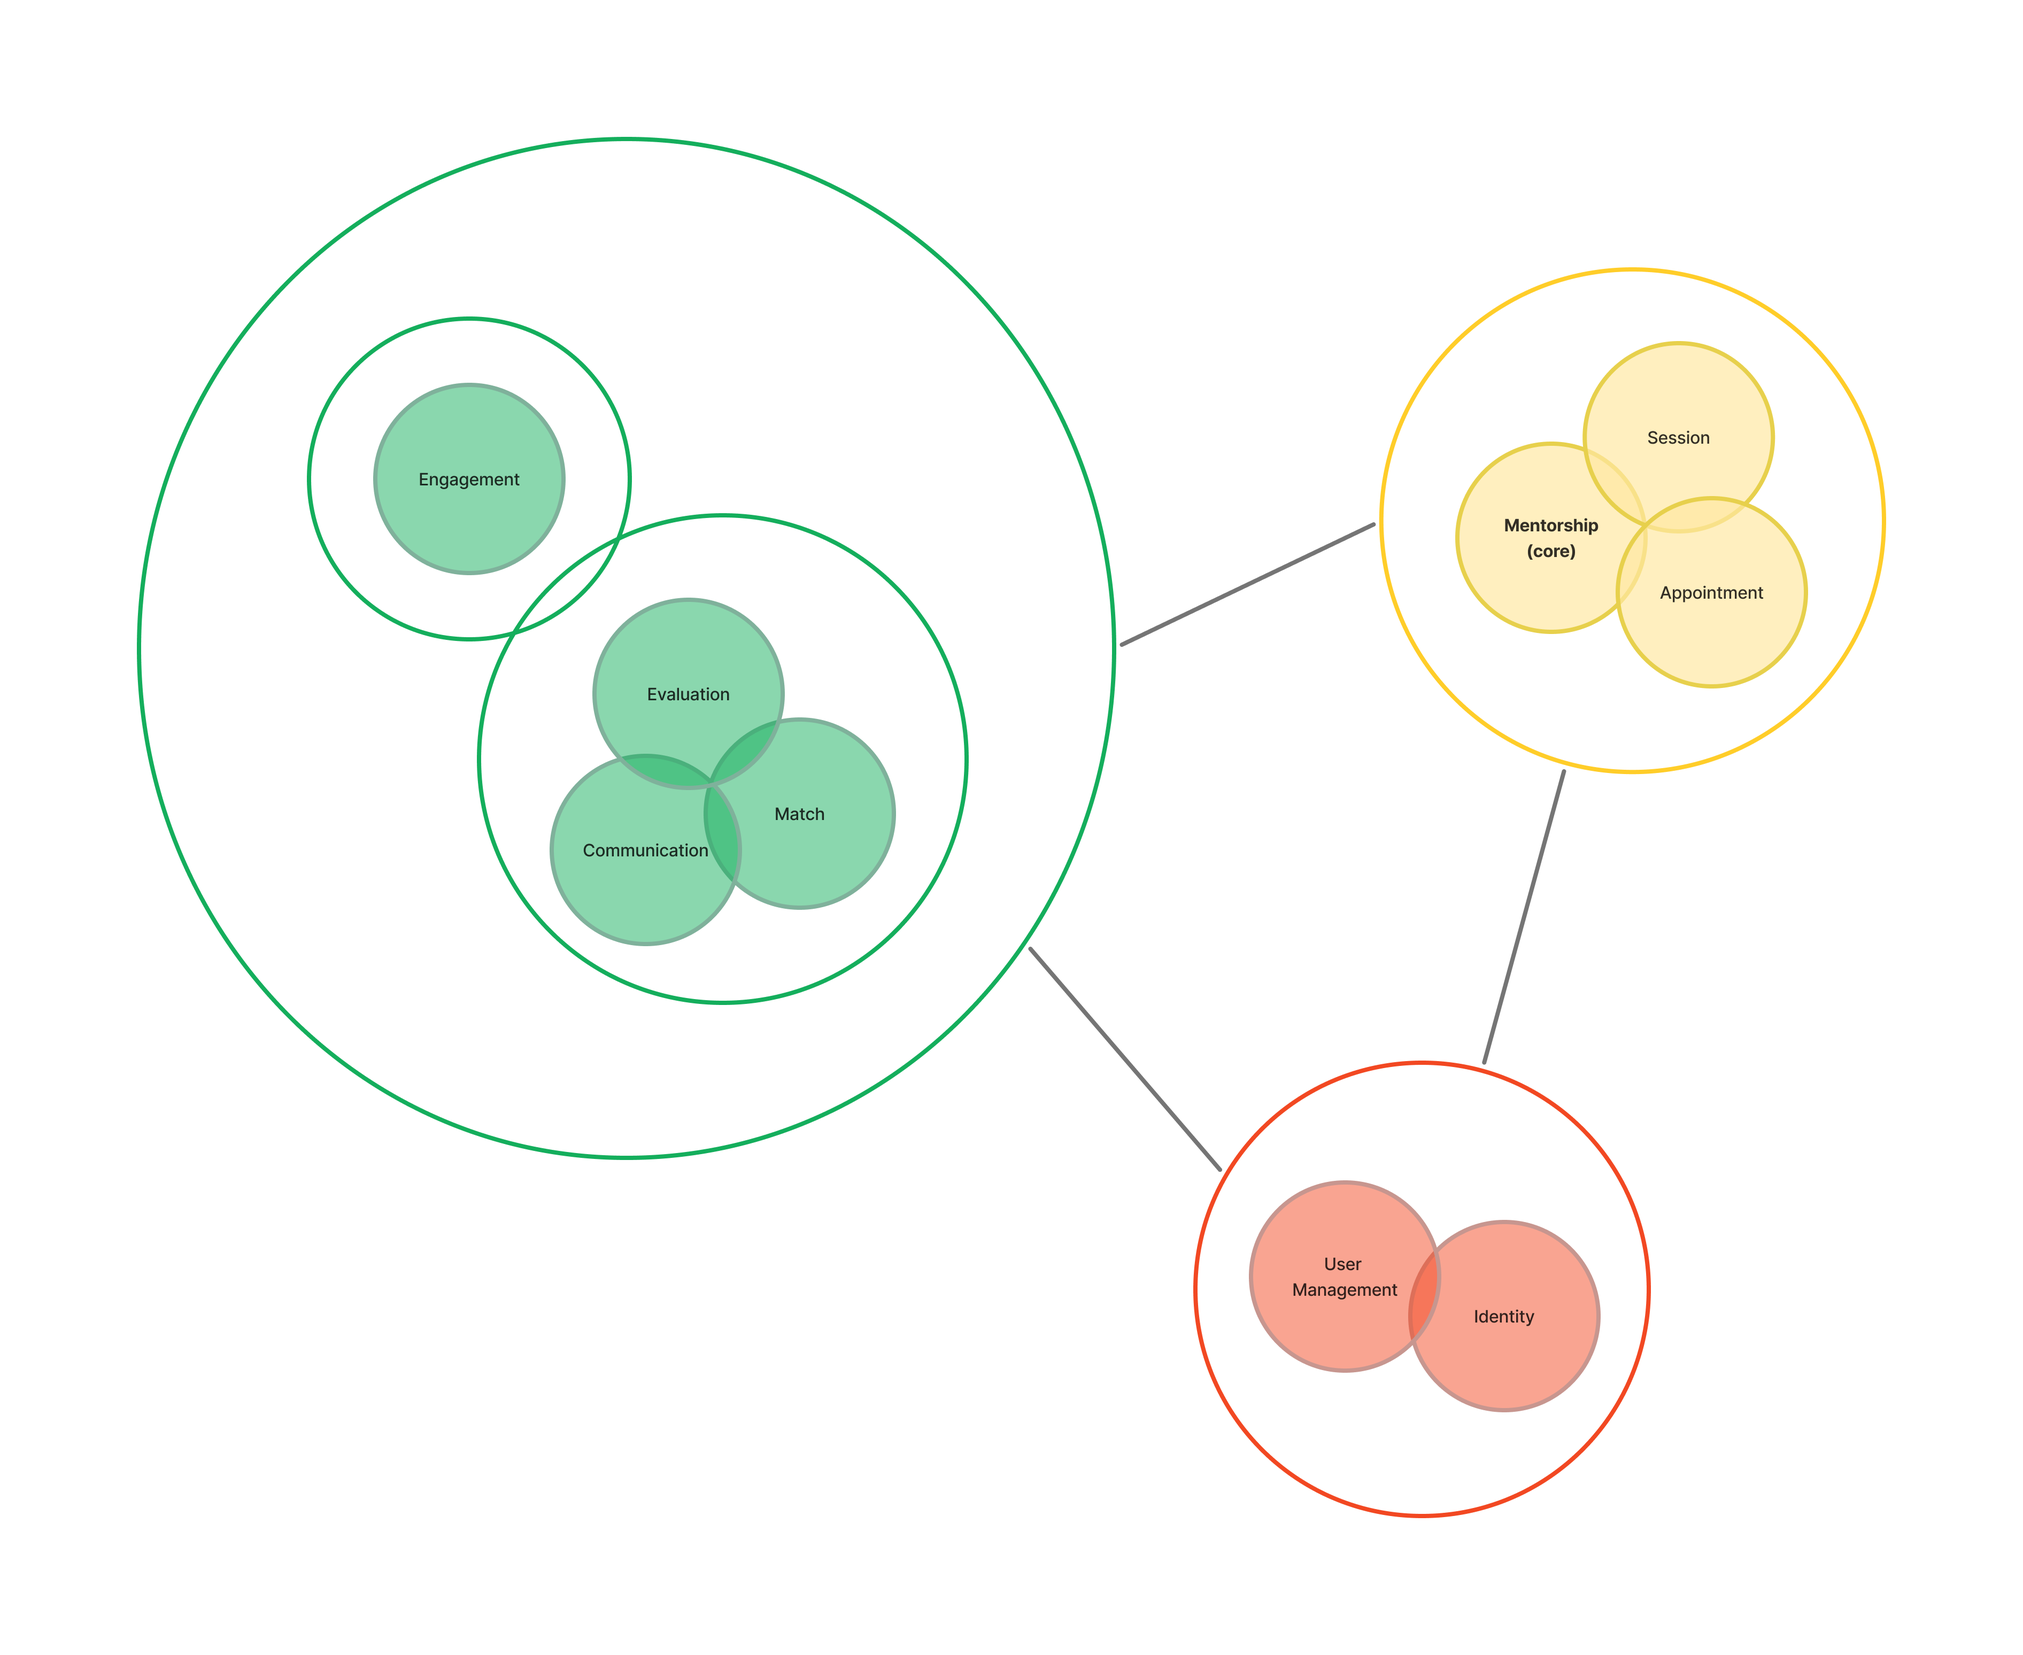
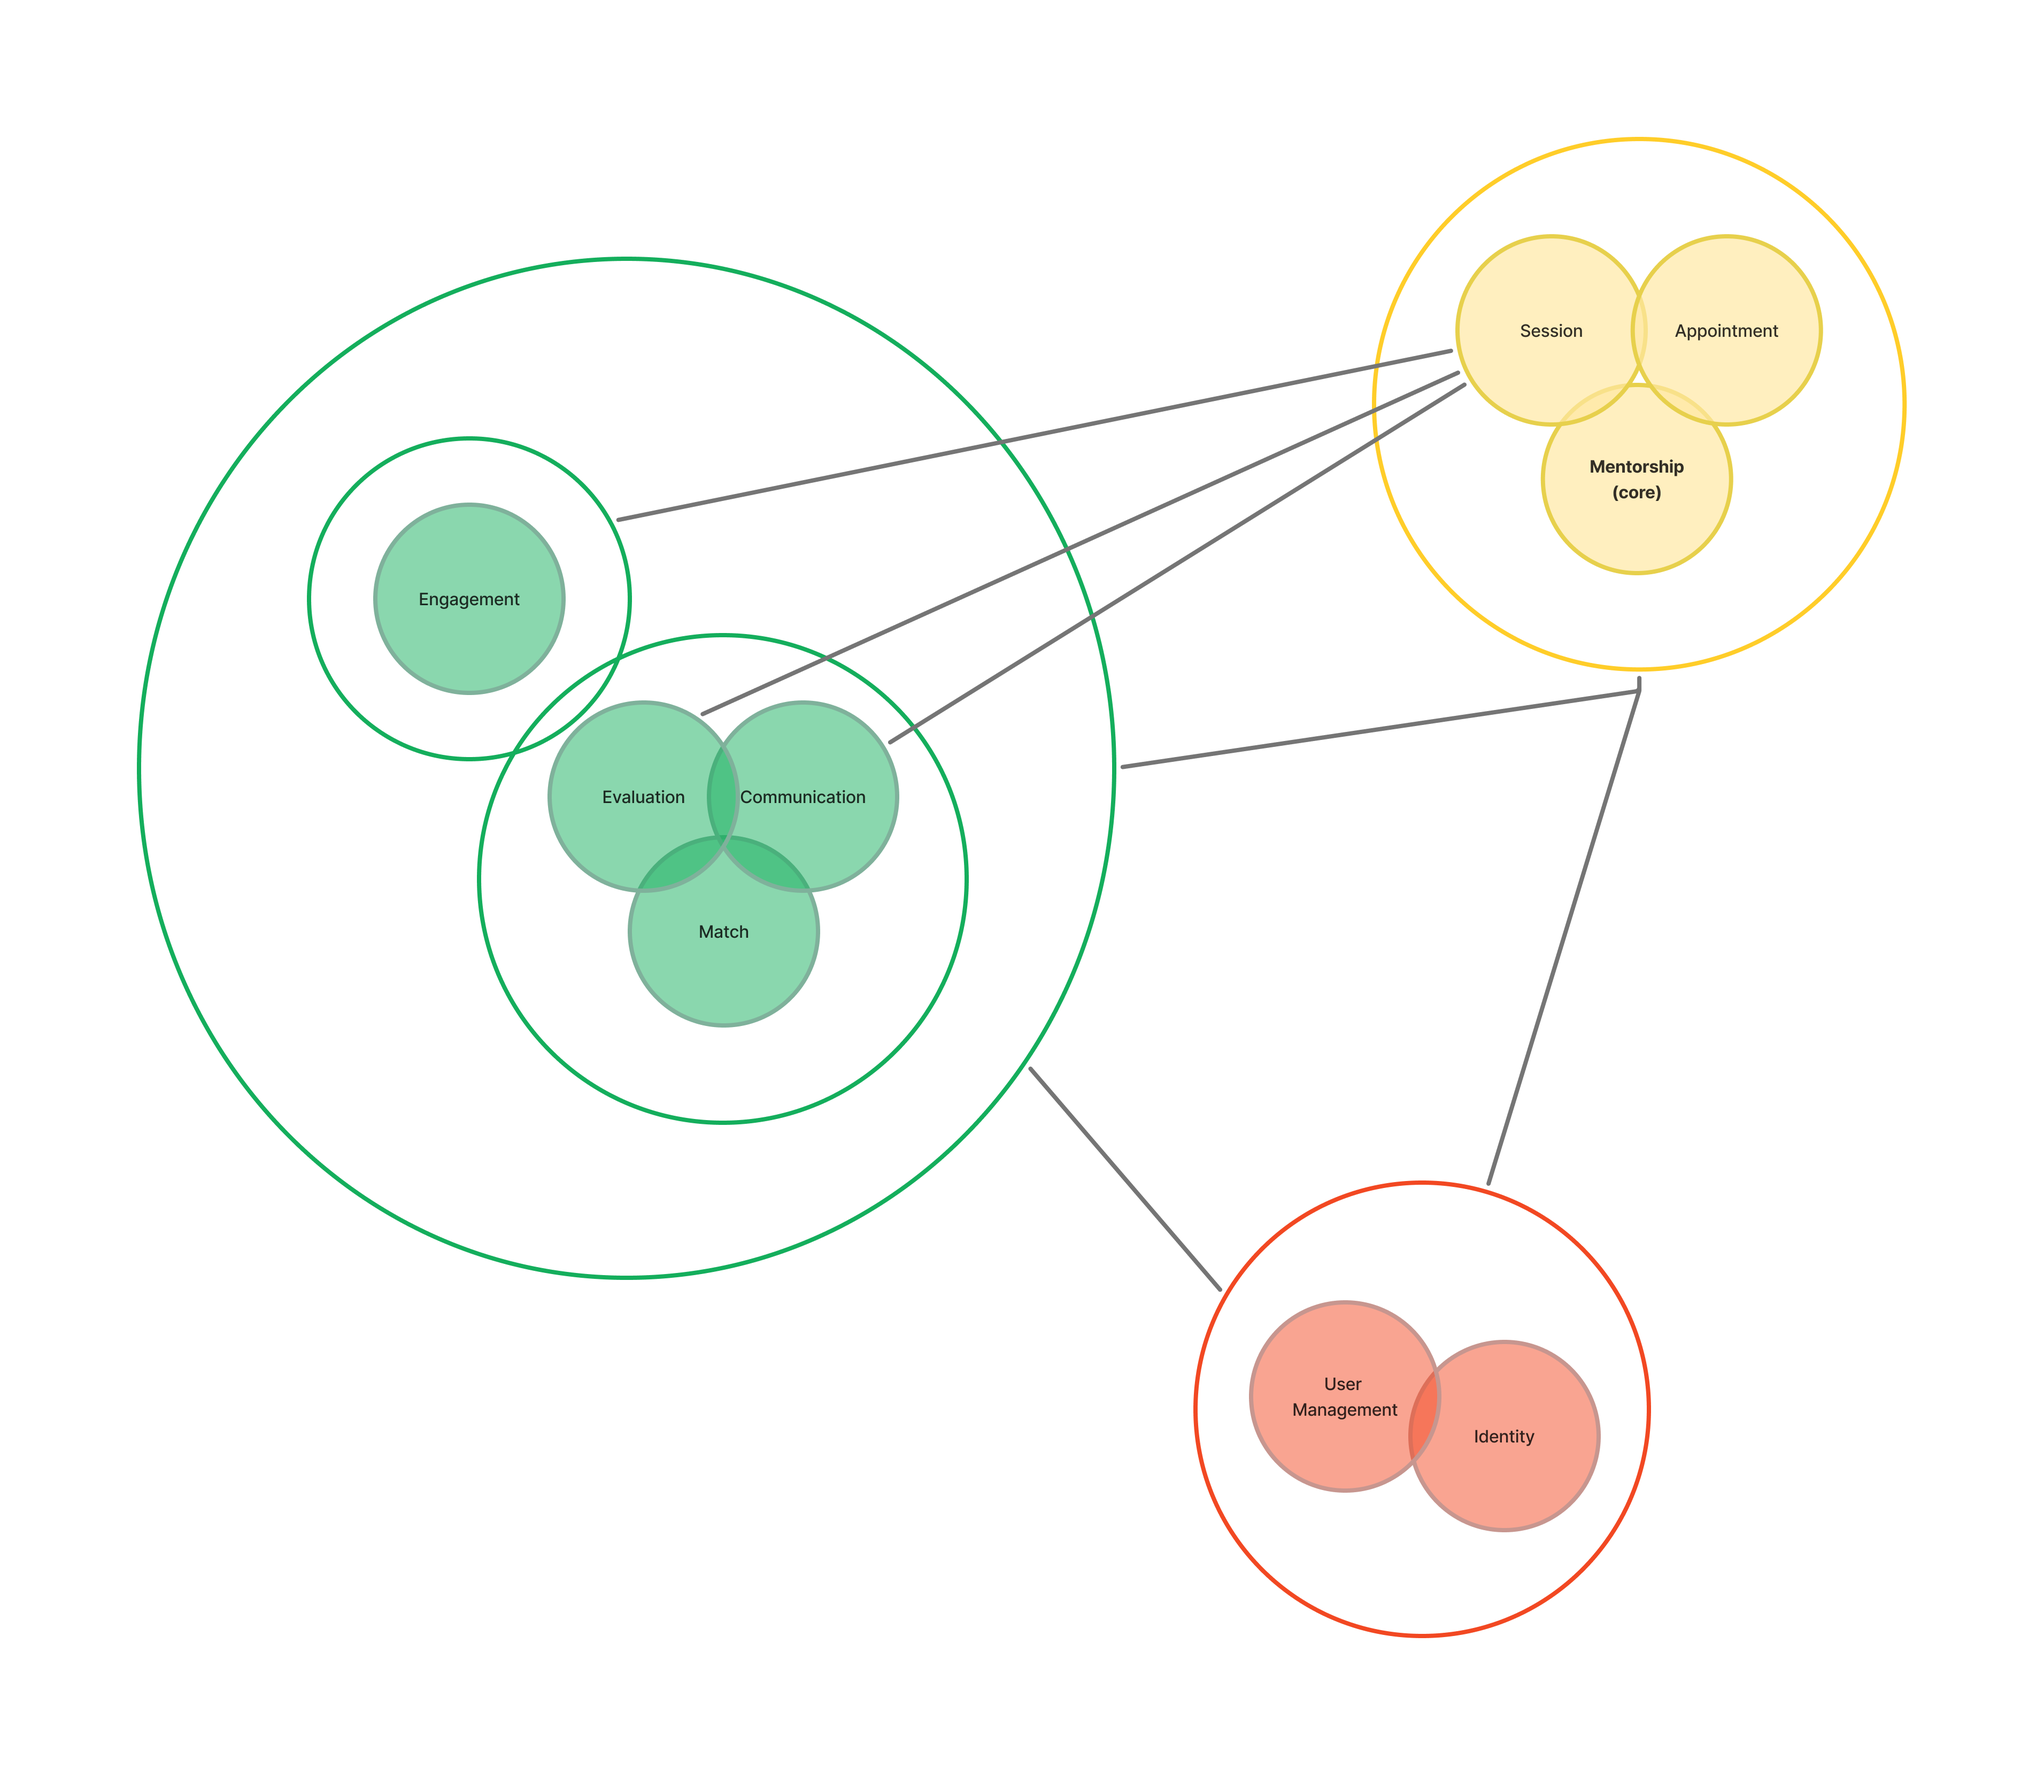
docs: add session context

diff --git a/artifacts/architecture/domain-modeling/bounded_contexts.md b/artifacts/architecture/domain-modeling/bounded_contexts.md
@@ -91,6 +91,44 @@ A plataforma precisa facilitar o processo de mentoria entre desenvolvedores e as
 - Matches devem priorizar compatibilidade em termos de habilidades e disponibilidade.
 - Feedback negativo pode levar a ajustes nos critérios de matchmaking.
 
+## Session
+
+**Espaço Problema**
+
+- Usuários precisam de uma forma eficiente de agendar, gerenciar e conduzir sessões de mentoria.
+
+**Desafio Principal**
+
+- Gerenciar as sessões de mentoria, garantindo que elas sejam organizadas, rastreadas e concluídas com sucesso, mantendo uma boa experiência para mentores e mentorados.
+
+**Problemas Específicos:**
+
+- Garantir que mentores e mentorados possam coordenar horários disponíveis para agendar as sessões.
+- Acompanhar o status das sessões (agendadas, em andamento, concluídas) de maneira eficiente.
+- Registrar as atividades durante as sessões e coletar feedback de ambos os lados para melhorar as futuras interações.
+- Lidar com cancelamentos e reagendamentos de sessões.
+
+**Espaço Solução**
+
+**Responsabilidades Principais:**
+
+- Facilitar a coordenação de horários entre mentores e mentorados, permitindo que ambos concordem com um horário mutuamente conveniente.
+- Monitorar o andamento das sessões, registrando seu progresso e conclusão.
+- Permitir que os participantes deixem comentários e avaliações após a conclusão de uma sessão.
+- Gerenciar de forma eficaz solicitações de cancelamento e reagendamento, garantindo que as regras de política sejam seguidas.
+
+**Entidades e Objetos de Valor:**
+
+- Sessão: Representa um encontro agendado entre mentor e mentorado, contendo informações como data, hora, status (agendada, em andamento, concluída), e feedback.
+- Agendamento: Entidade responsável por registrar e gerenciar a data e hora acordada para uma sessão.
+- Feedback: Um objeto de valor que armazena as avaliações e comentários dados por mentores e mentorados após a sessão.
+
+**Regras de Negócio:**
+
+- Política de Cancelamento: Definir regras claras para cancelamentos e reagendamentos, como prazos para notificações e possíveis penalidades.
+- Status de Sessão: Sessões devem ter estados claramente definidos (agendada, em andamento, concluída, cancelada), e as transições entre esses estados devem seguir regras específicas.
+- Feedback Obrigatório: Após a conclusão de cada sessão, feedback deve ser coletado de ambos os participantes para melhorar a experiência e a qualidade das mentorias futuras.
+
 ### Communication
 
 **Espaço Problema:**
@@ -282,6 +320,28 @@ Espaço Solução:
     <tr>
       <td>Evaluation</td>
       <td>Recebe feedback sobre a eficácia dos matches para ajuste contínuo.</td>
+    </tr>
+    <tr>
+      <td rowspan="4">Session</td>
+      <td rowspan="4">Desenvolver e aprimorar funcionalidades para a gestão completa de sessões de mentoria, desde o agendamento até o registro e acompanhamento.</td>
+      <td>Mentorship</td>
+      <td>Sessões fazem parte do processo de mentoria e estão diretamente ligadas às interações e avaliações entre mentores e mentorados.</td>
+    </tr>
+    <tr>
+      <td>Appointment</td>
+      <td>Interage com o sistema de agendamento para coordenar horários e disponibilidades.</td>
+    </tr>
+    <tr>
+      <td>Engagement</td>
+      <td>O sucesso e frequência das sessões podem impactar o sistema de recompensas e reconhecimento dos usuários.</td>
+    </tr>
+    <tr>
+      <td>Communication</td>
+      <td>Facilita o contato entre mentores e mentorados antes, durante, e após as sessões.</td>
+    </tr>
+     <tr>
+      <td>Evaluation</td>
+      <td>Permite que os usuários avaliem a sessão de mentoria como parte do feedback.</td>
     </tr>
     <tr>
       <td rowspan="4">Communication</td>

diff --git a/artifacts/decisions/users_management.md b/artifacts/decisions/users_management.md
@@ -1,0 +1,42 @@
+| Tema            | Decisão técnica           |
+| --------------- | ------------------------- |
+| Recurso         | Gerenciamento de usuários |
+| Data de criação | 30-08-2024                |
+| Responsável     | @otiodarth                |
+| Data de revisão | 30-08-2024                |
+| Versão          | 01                        |
+
+## Visão geral
+
+Existem três papéis principais para os usuários da plataforma: mentores, mentorados e admin. Logo, surge a questão:
+Como gerenciar os perfis de usuários de forma simplificada por se tratar de um MVP, mas ao mesmo tempo pensando em escalabilidade?
+
+## Possíveis soluções
+
+As duas principais abordagens são:
+
+1. Manter uma tabela apenas para usuários, com uma coluna indicando o tipo de usuário. É definitivamente a abordagem mais simples. Caso implementada, em caso de escala da aplicação, será necessário separar os tipos de usuários em tabelas diferentes (caso abaixo).
+
+**Vantagem**
+
+- Maior simplicidade
+
+**Desvantagem**
+
+- Retrabalho em caso de escala da aplicação
+
+2. Criar uma tabela principal para usuarios, e tabelas secundárias para mentores e mentorados, contendo a referência do usuário. Esta abordagem possui maior complexidade devido a configurações iniciais de relacionamentos entre as tabelas.
+
+**Vantagem**
+
+- Reduz o retrabalho em caso de escala da aplicação
+
+**Desvantagem**
+
+- Adiciona complexidade
+
+## Decisão
+
+Visto que se trata de um MVP, será adotada a abordagem mais simplificada, a fim de ganhar tempo no desenvolvimento.
+Porém, deve ser montada uma estratégia clara de transição para uma arquitetura mais escalável em caso de crescimento da plataforma.
+Além disso, a implementação de uma arquitetura modular desde o início pode contribuir para facilitar a refatoração no futuro.
